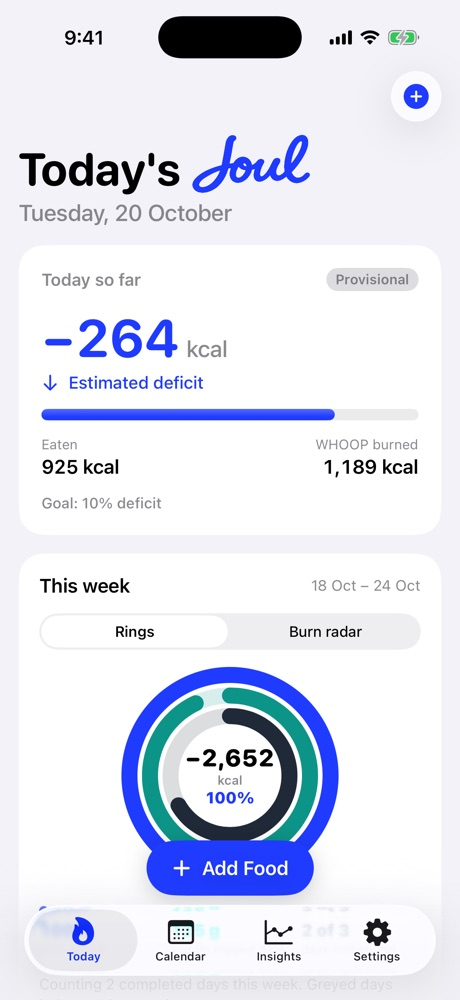
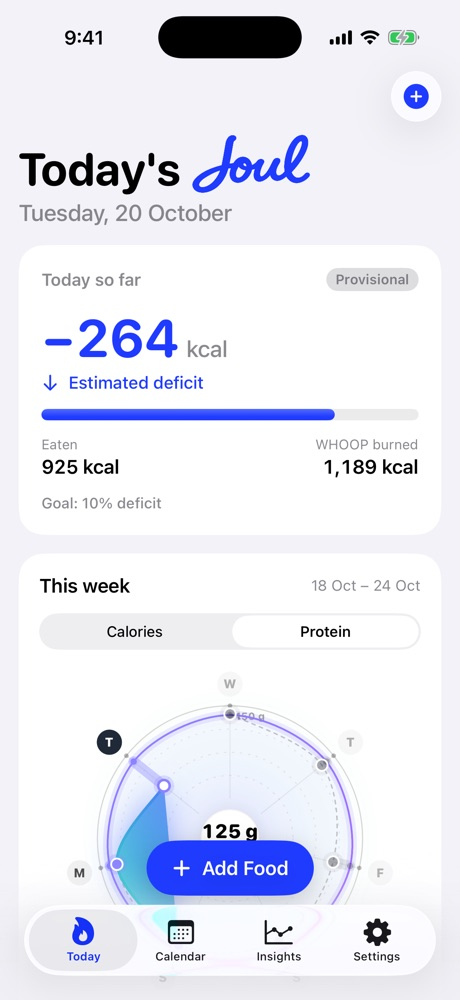
Show the new calories and protein dials in the phone mockups

diff --git a/index.html b/index.html
@@ -65,10 +65,10 @@
         <img src="assets/screens/today.jpg" alt="Joul's Today screen showing a 264 kcal estimated deficit, with calories eaten and burned" loading="lazy" width="1000" height="2174">
       </figure>
       <figure class="iphone p2 reveal">
-        <img src="assets/screens/week.jpg" alt="The weekly rings: goal progress, protein and days logged, with the week's balance in the middle" loading="lazy" width="1000" height="2174">
+        <img src="assets/screens/dial-calories.jpg" alt="The weekly calories dial: calories burned as the outline, calories eaten as the glowing shape, with the week's balance in the middle" loading="lazy" width="1000" height="2174">
       </figure>
       <figure class="iphone p3 reveal">
-        <img src="assets/screens/radar.jpg" alt="The burn radar: calories burned as the outline, calories eaten as the shape" loading="lazy" width="1000" height="2174">
+        <img src="assets/screens/dial-protein.jpg" alt="The weekly protein dial: your protein target as the outline and protein eaten as the shape" loading="lazy" width="1000" height="2174">
       </figure>
     </div>
     <p class="fine center shots-note">Screens from the Joul app, shown with sample data.</p>
